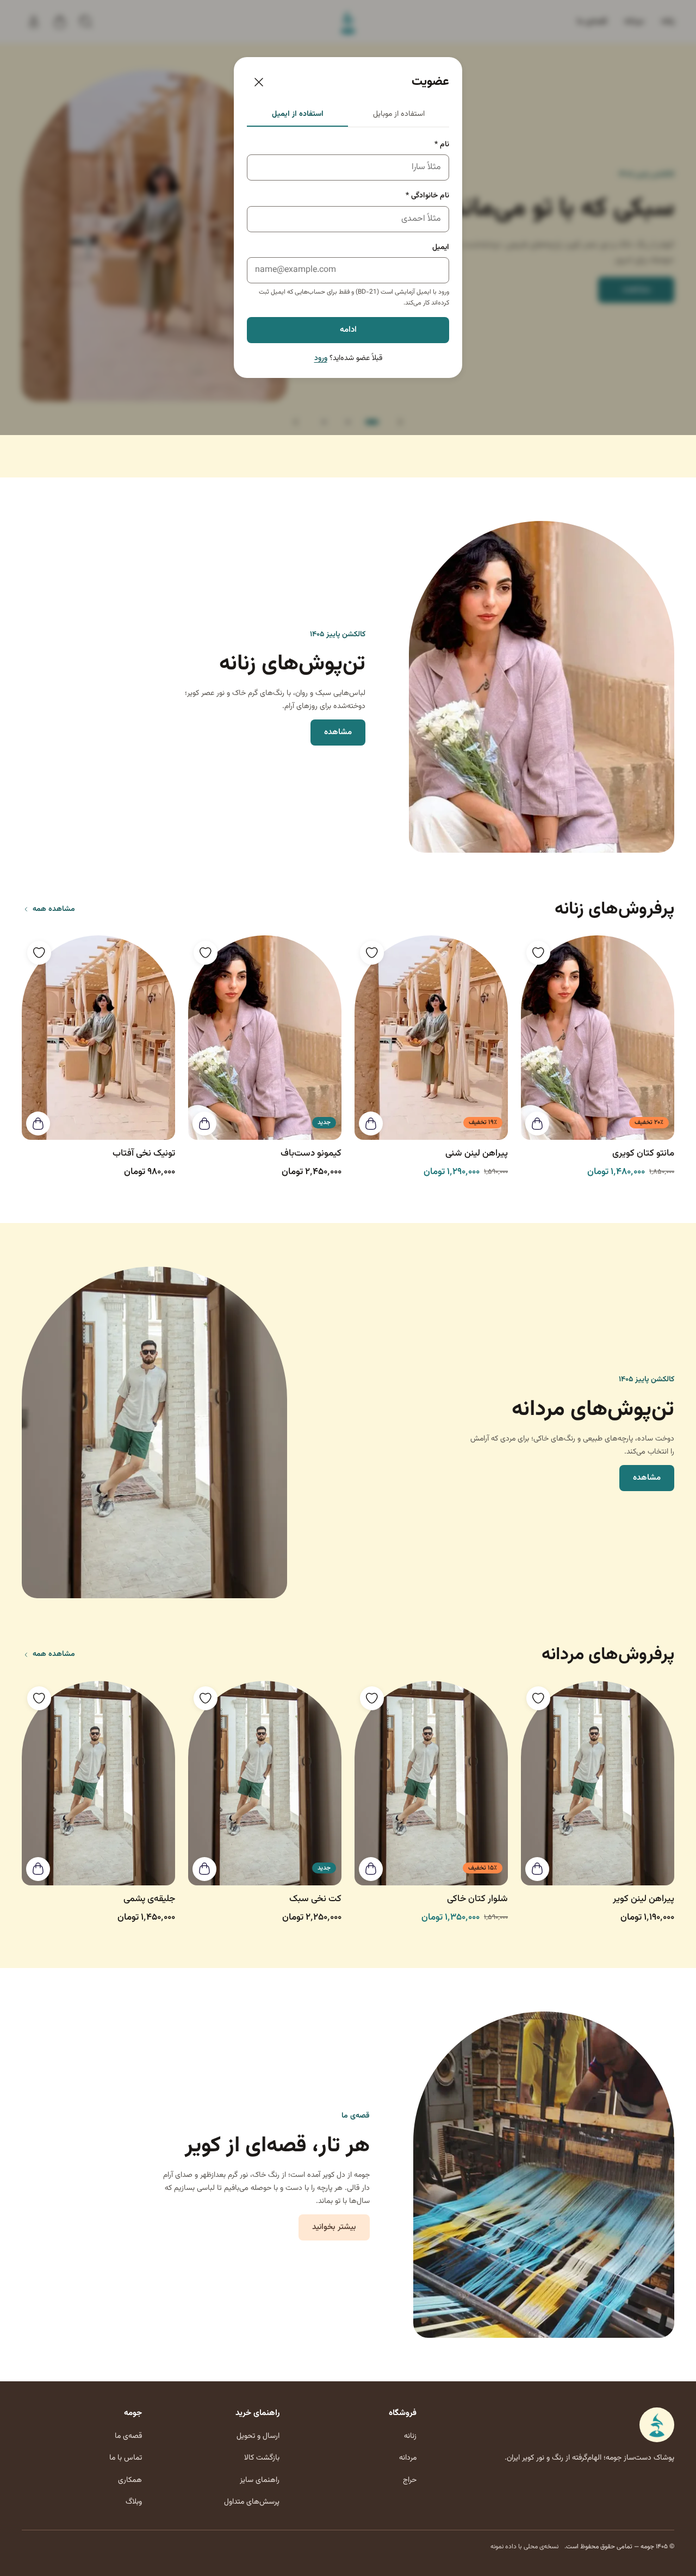
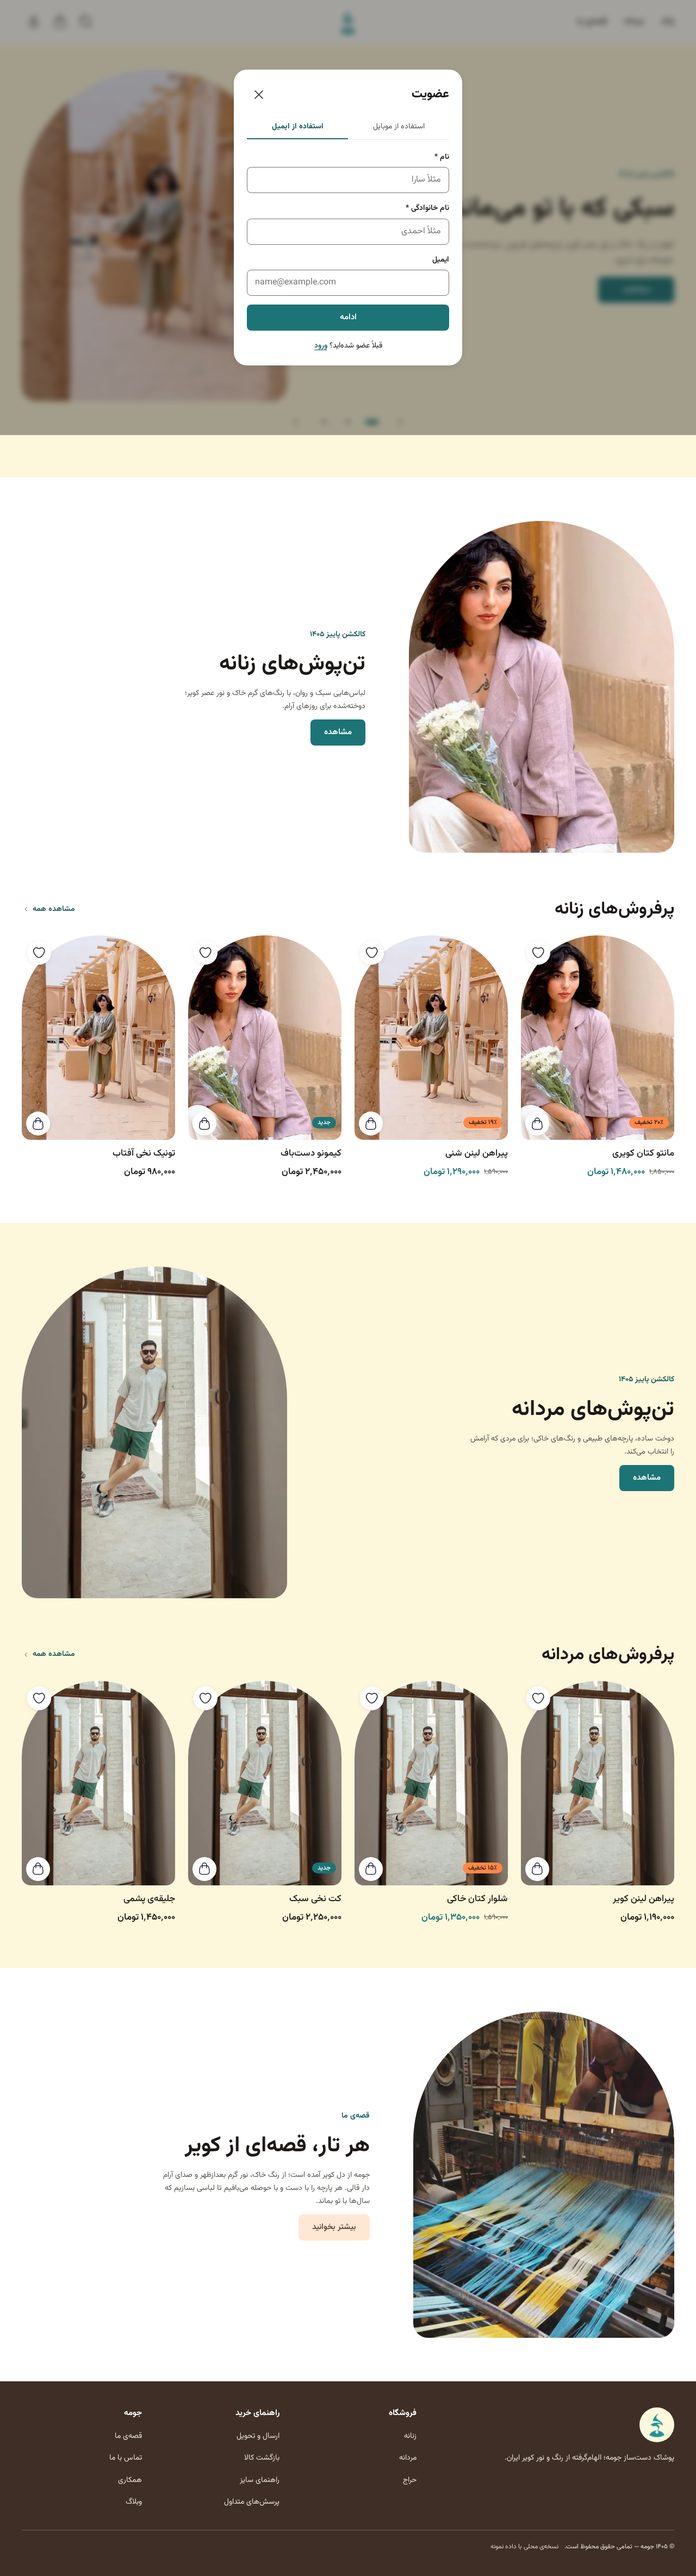
R3-1: hide email helper line in signup mode (107:812); release check

Changed region(s): [[0.3438, 0.0, 0.6562, 0.1562]]

diff --git a/src/components/AuthModal.tsx b/src/components/AuthModal.tsx
@@ -111,8 +111,8 @@ export function AuthModal() {
             </>}
             {isMail
               ? <div className="field"><label htmlFor="email">ایمیل</label>
-                <input id="email" className="input" type="email" autoComplete="email" dir="ltr" placeholder="name@example.com" value={email} onChange={e => setEmail(e.target.value)} aria-invalid={!!err} aria-describedby={err ? 'auth-err' : 'mail-note'} />
-                <p id="mail-note" className="caption muted" style={{ margin: 0 }}>ورود با ایمیل آزمایشی است (BD-21) و فقط برای حسابهایی که ایمیل ثبت کردهاند کار میکند.</p></div>
+                <input id="email" className="input" type="email" autoComplete="email" dir="ltr" placeholder="name@example.com" value={email} onChange={e => setEmail(e.target.value)} aria-invalid={!!err} aria-describedby={err ? 'auth-err' : mode === 'login' ? 'mail-note' : undefined} />
+                {mode === 'login' && <p id="mail-note" className="caption muted" style={{ margin: 0 }}>ورود با ایمیل آزمایشی است (BD-21) و فقط برای حسابهایی که ایمیل ثبت کردهاند کار میکند.</p>}</div>
               : <div className="field"><label htmlFor="phone">شماره موبایل</label>
                 <input id="phone" className="input" inputMode="tel" autoComplete="tel" dir="ltr" placeholder="۰۹۱۲ ۳۴۵ ۶۷۸۹" value={phone} onChange={e => setPhone(e.target.value)} aria-invalid={!!err} aria-describedby={err ? 'auth-err' : undefined} /></div>}
             {err && <p id="auth-err" className="err auth__err" role="alert"><Icon name="danger-circle" size={20} />{err}</p>}

diff --git a/tests/components.test.tsx b/tests/components.test.tsx
@@ -128,6 +128,7 @@ describe('AuthModal (mock OTP)', () => {
     fireEvent.click(within(dlg).getByRole('button', { name: 'ثبتنام کنید' }));
     const su = screen.getByRole('dialog', { name: 'عضویت' }); expect(within(su).getByLabelText('نام *')).toBeInTheDocument(); expect(within(su).getByLabelText('نام خانوادگی *')).toBeInTheDocument();
     expect(screen.queryByText(/حساب دارید/)).toBeNull();
+    fireEvent.click(within(su).getByRole('tab', { name: 'استفاده از ایمیل' })); expect(within(su).getByLabelText('ایمیل')).toBeInTheDocument(); expect(within(su).queryByText(/ورود با ایمیل آزمایشی/)).toBeNull(); // R3-1
     fireEvent.click(within(su).getByRole('tab', { name: 'استفاده از موبایل' }));
     fireEvent.click(within(su).getByRole('button', { name: 'ادامه' })); expect(await within(su).findByText('نام را وارد کنید')).toBeInTheDocument();
     expect(within(su).getByLabelText('نام *')).toHaveAttribute('aria-invalid', 'true');

diff --git a/reports/design-review-2026-10-21.md b/reports/design-review-2026-10-21.md
@@ -195,3 +195,35 @@ Method: as before. New/changed shots compared with Figma renders pulled read-onl
 - BLOCKED for the CEO: BD-01/02/03/06/07/11/14/15/18/21/24 and support tickets (P7).
 
 Once R2-1 is fixed and re-shot, I expect to give design-match approval with those exceptions. R2-2 should be closed before any deploy.
+
+---
+## Round 3 verification and design sign-off (commit 07db401) — 2026-10-21 03:30 Tehran
+Method: re-shot mobile screens compared with Figma 108:6003, 107:1247/1375/1543 and 107:812/107:709 (read-only renders); `rg` over source, `api/`, `vercel.json`, tests and `dist/`. Visual + static evidence; no interaction testing.
+
+| # | Item | Status | Evidence |
+|---|---|---|---|
+| R2-1 | Mobile auth = centred card | **FIXED** | auth-modal, signup, signup-error, signup-email and auth-code (mobile) are now centred cards with side margins, all corners rounded and no drag handle, over the dimmed page. This matches 108:6003 and the 343-wide variants 107:1247 / 107:1375 / 107:1543. women-filter-mobile is still a full-width bottom sheet with a handle (69:15362). The size-guide sheet (245:61112) was verified as a sheet in round 2; that shot was not retaken this round. There is no sort-sheet screenshot, so sort is unverified by image (Alex's flow step covers filter only). |
+| R2-2 | Demo OTP opt-in | **FIXED** | `server/config.ts:11` `demoOtp = process.env.JOUMEH_DEMO_OTP === '1'` (independent of NODE_ENV). `server/app.ts:35-36,153,191`: code is returned and logged only when `demoOtp` is on. `server/sms.ts:5`: logCode defaults to false. `api/index.ts:9` `createApp(db, { demoOtp: false })` forces it off on Vercel. `vercel.json` sets nothing. `.env.example` has the name only, and `package.json` has an opt-in `api:demo` script. Tests: `tests/api.test.ts:111-118` (unset, NODE_ENV=production, NODE_ENV=development, `true` rejected, `1` accepted, e-mail) and `tests/api-vercel.test.ts:12-15` (no code even with the variable set). The `dist/` bundle has no «dev-otp», «SMS آزمایشی» or «کد محلی». It does contain the field name `devCode` (the client reads the optional field), which is harmless because the server never sends it by default. I did not run the test suite myself; I'm relying on Alex's reported 63/63. |
+
+**Email-tab helper copy (signup).** Figma 107:812 (Signup / Email / Default) has **no helper line**: just «نام *», «نام خانوادگی *», «ایمیل» (placeholder name@example.com), «ادامه» and «قبلاً عضو شدهاید؟ ورود». The login email variant 107:709 has none either. So there is no signup-specific wording to give, and I won't invent any. The build's line «ورود با ایمیل آزمایشی است (BD-21)…» is a BD-21 stub note, not designed copy. Ruling: **Minor R3-1.** In signup mode, replace the login-worded sentence with the build's standard neutral stub pattern (BD-21 chip / «در انتظار تصمیم کسبوکار»), or hide it. Final wording depends on the BD-21 decision.
+
+### Design sign-off
+**APPROVED for design match** with the screenshot evidence (1280 / 375; not checked at 1440, no interaction testing), with one open Minor (R3-1, wording of a stub note) that doesn't block sign-off. These exceptions apply:
+
+Interim (accepted, not designed):
+- Payment step (P1) and order confirmation (P2): not designed, BD-01/03/13.
+- Hero carousel controls (P5).
+- Desktop filter panel (P4); the mobile sheet follows 69:15362.
+- City as a text field (D2, no city dataset, BD-02).
+- 9 sample filter categories (BD-18), size-guide values «—» (BD-18).
+- OTP timer starting at ۰۲:۰۰ (BD-13).
+- Email signup/login as a stub (BD-21).
+- Info pages other than FAQ/contact/size guide (BD-14/BD-04).
+
+BLOCKED for the CEO:
+- BD-01 payment provider, BD-02 shipping/fees/zones (۲ میلیون vs ۳۲۰٬۰۰۰), BD-03 delivery promise, BD-06 VAT, BD-07 guest checkout, BD-11 order number format, BD-13 SMS provider and timer, BD-14 legal/info, BD-15 reviews, BD-18 taxonomy and size charts, BD-21 e-mail OTP, BD-24 COD/pickup.
+- Support tickets in scope (P7; designs exist 246:15742–246:18775).
+- Font licence, photo rights and the shared men's photo (asset gap).
+- Confirmation in my chat of the relayed R-01/02/03 decisions (20% badge, carousel, Apply filters).
+
+This is design approval only. Any deploy, Vercel included, still needs the CEO's explicit approval.

diff --git a/reports/fixes-round-3.md b/reports/fixes-round-3.md
@@ -18,3 +18,8 @@ Visibly changed (mobile only): `auth-modal-mobile`, `signup-mobile`, `signup-err
 
 ## Note
 - The email-tab helper line in signup mode still reads «ورود با ایمیل آزمایشی است (BD-21)…» (login wording). Signup by email remains a BD-21 stub.
+
+## R3-1 (Minor, after Emma's sign-off) — FIXED
+- In signup mode the email-tab helper line is removed entirely (107:812 / 107:709 have none). The sign-in email tab keeps it. The BD-21 stub behaviour is unchanged (signup by email shows the labelled BD-21 note after submit).
+- Evidence: `signup-email-desktop.png`, `signup-email-mobile.png`, retaken together with auth-modal / signup / signup-error: 8 renders, axe 0, console 0. Component test asserts the line is absent in signup mode. vitest 63/63. `results.json` is from the full round-3 run.
+- Release check: `npm run build` OK. `.gitignore` excludes `node_modules`, `dist`, `coverage` and `.env*` (except `.env.example`, which lists names only). None of them are tracked. `vercel.json` (vite, dist, `/api` rewrite, sql.js wasm include) and `api/index.ts` are present; the demo OTP is forced off there. A secret-pattern scan of tracked files found nothing. Not deployed or pushed.
